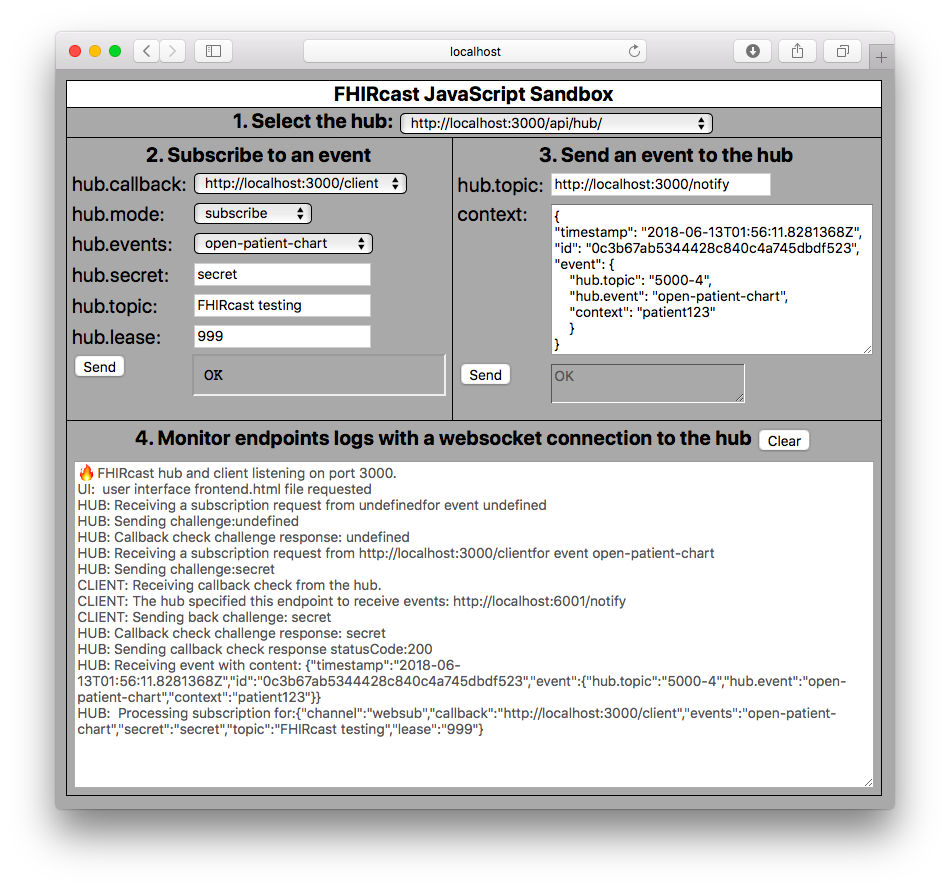
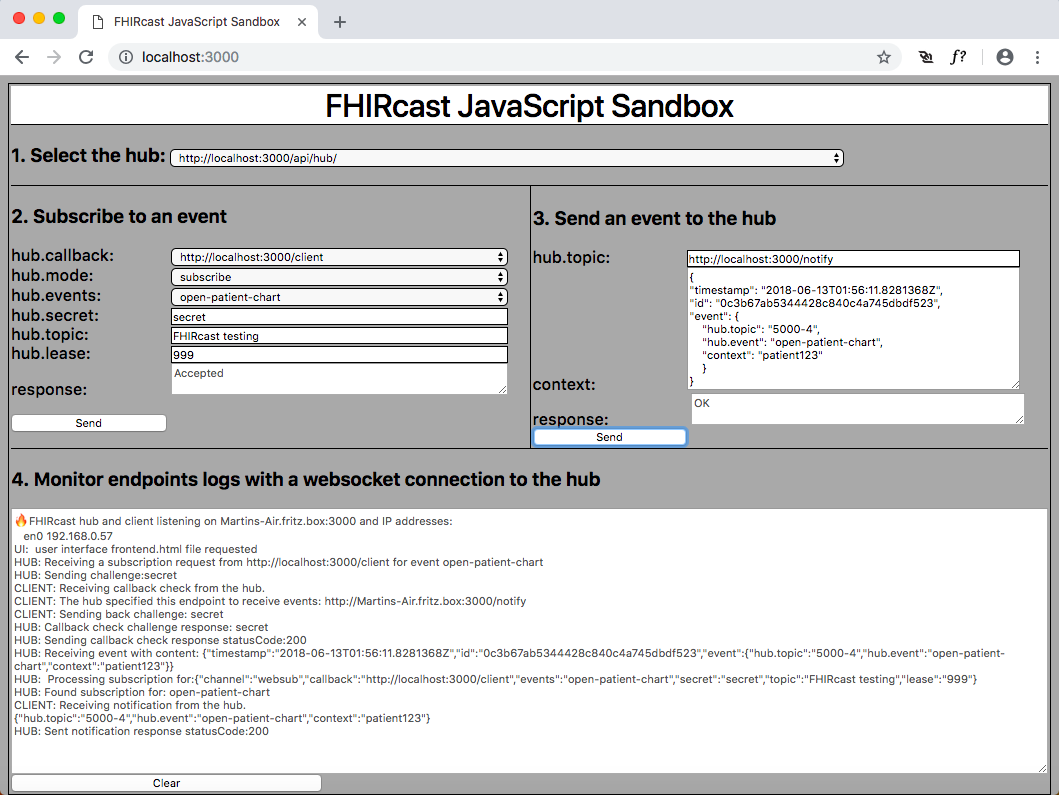
padding

diff --git a/frontend.html b/frontend.html
@@ -52,13 +52,13 @@
     let hubAddress="";
 </script>
 <style>
-    body {background-color: darkgray;font-family: system-ui; font-weight: 500;border: 1px solid black;}
+    body {padding: 2px;  background-color: darkgray;font-family: system-ui; font-weight: 500;border: 1px solid black; font-size: 16}
     header {background-color:white; text-align:center; font-size: 32}
     nav {border-top: 1px solid black;}
     div.subscribe {float: left;width: 50%;border-top: 1px solid black;}
-    div.notify {border-top: 1px solid black;border-left: 1px solid black;margin-left: 50%}
-    label,button {display: inline-block;width: 20%}
-    input,textarea,select {width: 70%;border:1px solid}
+    div.notify {padding: 2px; border-top: 1px solid black;border-left: 1px solid black;margin-left: 50%}
+    label,button {display: inline-block;width: 30%}
+    input,textarea,select {width: 65%;border:1px solid}
     textarea.incomingMsgOutput {width: 100%;border:1px solid}
     footer {border-top: 1px solid black;text-align:left}
 </style>
